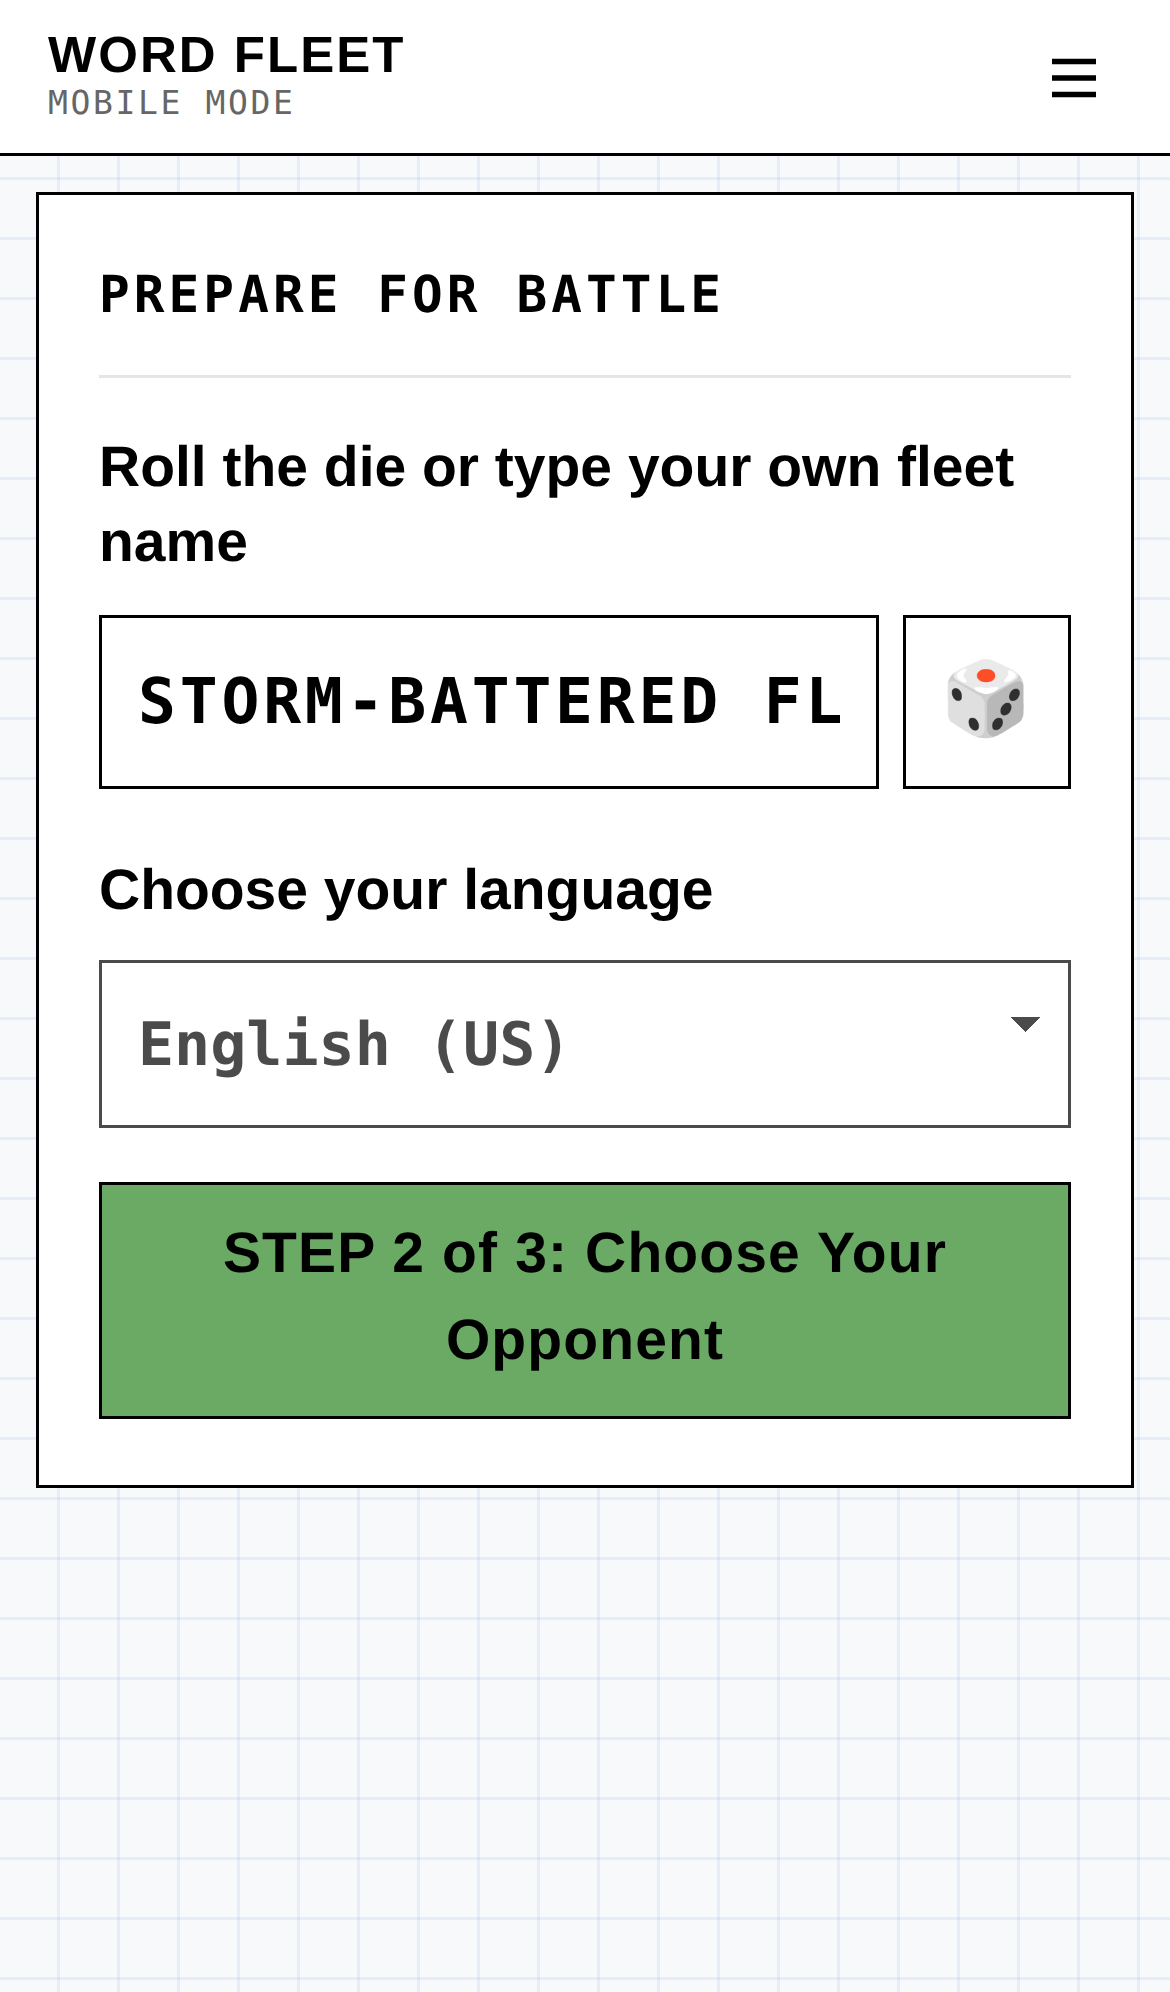
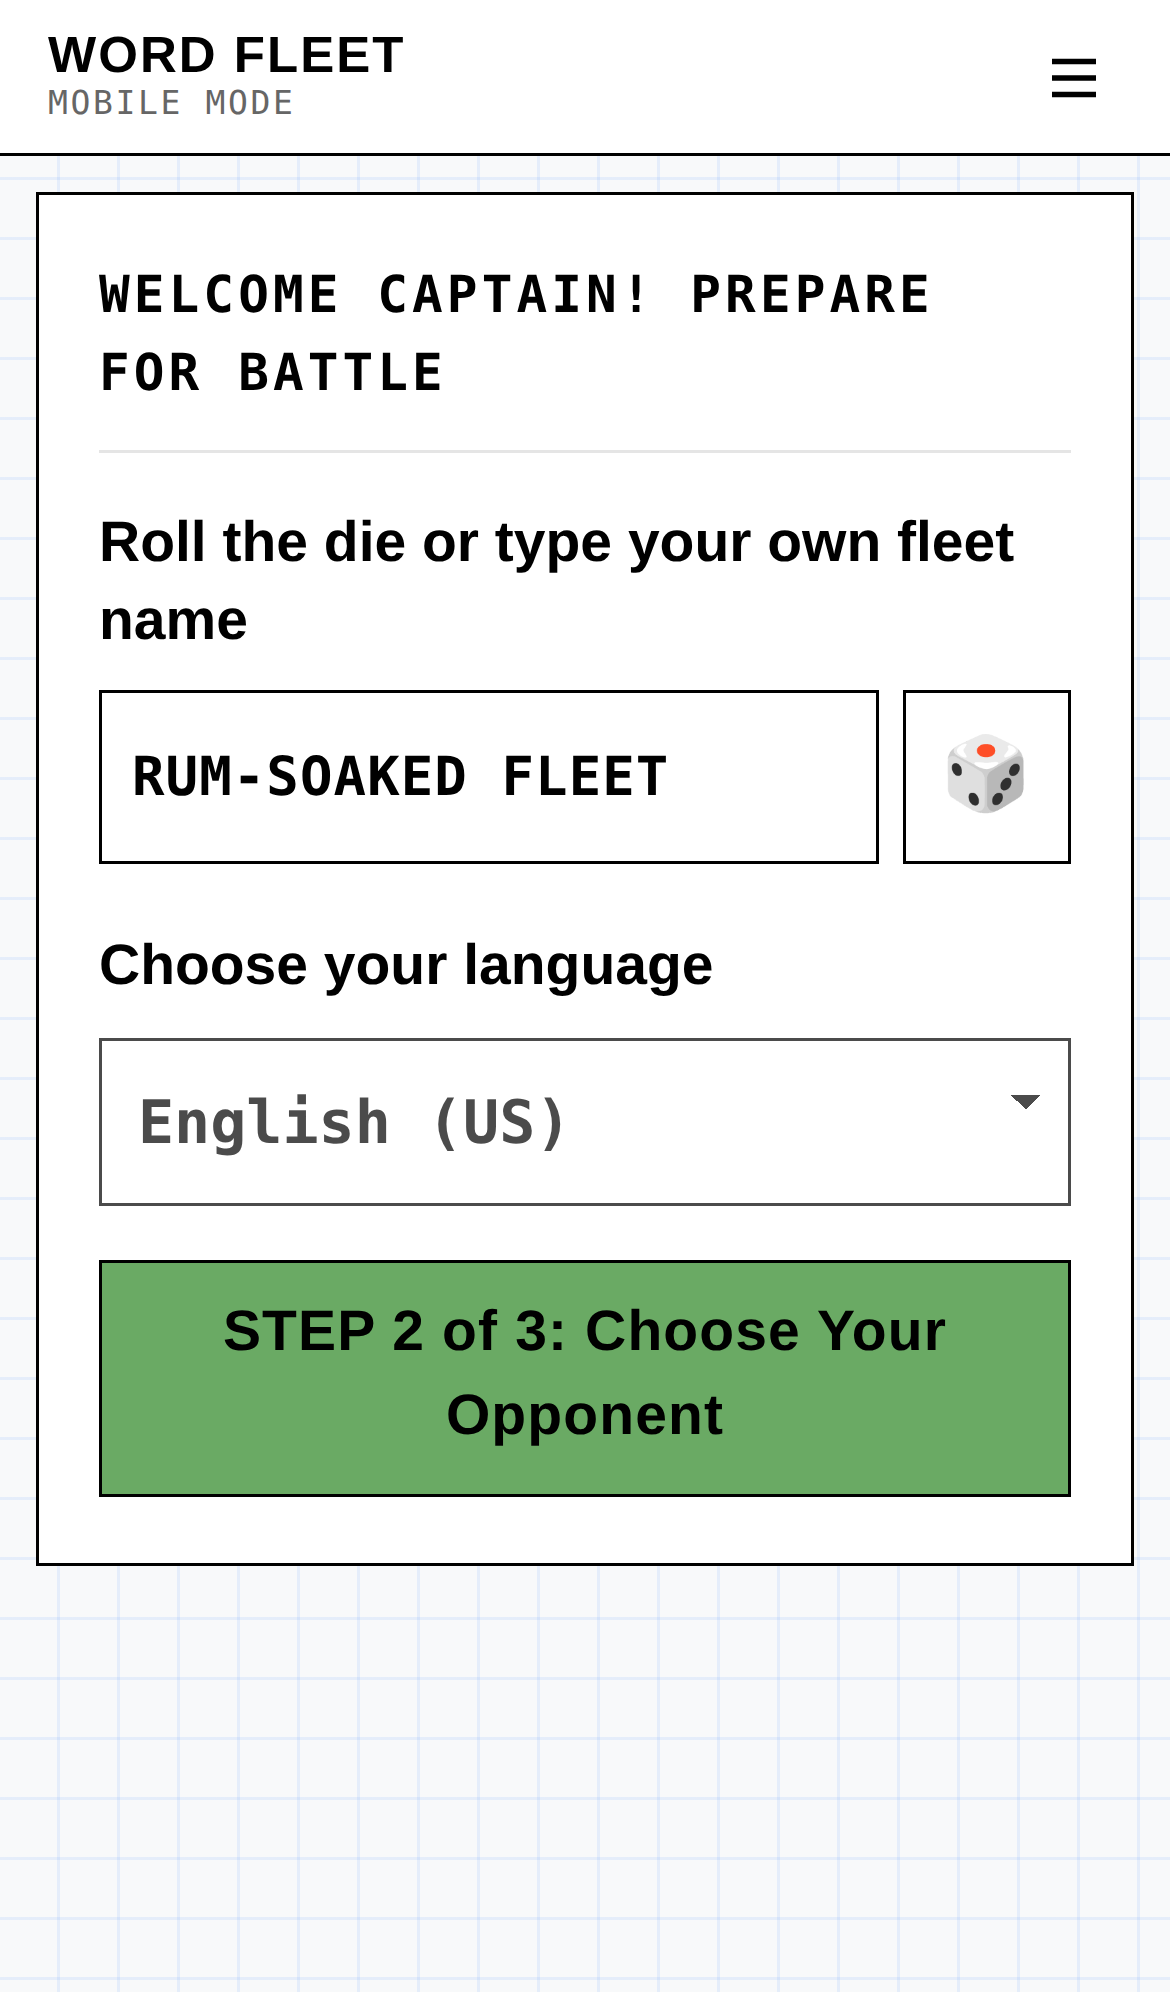
002: title Welcome Captain! Prepare for Battle; fit fleet name on small phones
Claude-Session: https://claude.ai/code/session_013sUGAAEC45a1EJCrQWVj9Q

diff --git a/mobile/index.html b/mobile/index.html
@@ -18,7 +18,7 @@
   <link rel="preconnect" href="https://fonts.gstatic.com" crossorigin>
   <link href="https://fonts.googleapis.com/css2?family=Courier+Prime:wght@400;700&family=Inter:wght@400;500;600;700&display=swap" rel="stylesheet">
   <!-- Bump ?v= on every release (and CACHE in sw.js) so a new page never runs old code. -->
-  <link rel="stylesheet" href="app.css?v=39">
+  <link rel="stylesheet" href="app.css?v=40">
 </head>
 <body>
 
@@ -54,7 +54,7 @@
   <!-- ============ 002 PREPARE FOR BATTLE (screen name: "002 Prepare for Battle") ============ -->
   <section class="screen setup-big" id="scrSetup" data-screen="002 Prepare for Battle">
     <div class="card">
-      <div class="card-title">Prepare for Battle</div>
+      <div class="card-title">Welcome Captain! Prepare for Battle</div>
       <label class="label label--say" for="inFleet">Roll the die or type your own fleet name</label>
       <div class="input-row">
         <input class="input" id="inFleet" maxlength="24" autocomplete="off" autocapitalize="characters" spellcheck="false" placeholder="SALTY ARMADA">
@@ -211,7 +211,7 @@
 
 <div class="toast" id="toast" hidden></div>
 
-<script src="audio.js?v=39"></script>
-<script src="app.js?v=39"></script>
+<script src="audio.js?v=40"></script>
+<script src="app.js?v=40"></script>
 </body>
 </html>

diff --git a/mobile/sw.js b/mobile/sw.js
@@ -1,11 +1,11 @@
 /* Word Fleet service worker: the whole game works offline once loaded. */
-var CACHE = 'wordfleet-v39';
+var CACHE = 'wordfleet-v40';
 var SHELL = [
   './',
   'index.html',
-  'app.css?v=39',
-  'app.js?v=39',
-  'audio.js?v=39',
+  'app.css?v=40',
+  'app.js?v=40',
+  'audio.js?v=40',
   'manifest.webmanifest',
   'icons/icon-180.png',
   'icons/icon-192.png',

diff --git a/mobile/app.css b/mobile/app.css
@@ -426,3 +426,4 @@ button.mf { font: inherit; color: var(--ink); width: 100%; padding: 3px 0 2px; c
 .setup-big .word-class { font-size: 14px; }
 .setup-big .word-class b { font-size: 16px; }
 .setup-big .input { letter-spacing: 0.06em; }
+.setup-big #inFleet { font-size: 18px; letter-spacing: 0.02em; padding: 10px; }

diff --git a/mobile/screens/README.md b/mobile/screens/README.md
@@ -6,7 +6,7 @@ referred to by name when asking for changes. Each has a number and a reference s
 | Name | In the code | Snapshot | What it is |
 | --- | --- | --- | --- |
 | **001 Mobile Home** *(parked)* | `<section id="scrMobileHome" data-screen="001 Mobile Home">`, `SCREENS.home` | `001-mobile-home.png` | **Parked, not shown to players.** Kept for later use. Was the first screen: WORD FLEET title, Mobile Mode tag, blurb, New Battle and Rules of Engagement buttons. The app now opens on 002 Prepare for Battle. |
-| **002 Prepare for Battle** | `<section id="scrSetup" data-screen="002 Prepare for Battle">`, `SCREENS.setup` | `002-prepare-for-battle.png` | **First screen players see.** "Roll the die or type your own fleet name" (with dice), "Choose your language". Screens 002-004 use large, easy-to-read text (`.setup-big`). |
+| **002 Prepare for Battle** | `<section id="scrSetup" data-screen="002 Prepare for Battle">`, `SCREENS.setup` | `002-prepare-for-battle.png` | **First screen players see.** Title "Welcome Captain! Prepare for Battle". "Roll the die or type your own fleet name" (with dice), "Choose your language". Screens 002-004 use large, easy-to-read text (`.setup-big`). |
 | **003 Choose Your Opponent** | `<section id="scrOpponent" data-screen="003 Choose Your Opponent">`, `SCREENS.opponent` | `003-choose-your-opponent.png` | Step 2 of 3: the AI Captain's rank (Ensign, Commander, Admiral). |
 | **004 Build Your Word-Ships** | `<section id="scrWords" data-screen="004 Build Your Word-Ships">`, `SCREENS.words` | `004-build-your-word-ships.png` | Possibly Offensive Words OK at the top; the five word-ships arrive drawn for your opponent and are editable, each with a ↻ redraw; Refresh All; Deploy Fleet checks every word against the dictionary. |
 | **005 Deploy** | `<section id="scrDeploy" data-screen="005 Deploy">`, `SCREENS.deploy` | `005-deploy.png`, `005-deploy-placed.png` | Place the five word-ships on your Defense Grid: Across/Down, Scatter, Clear, the roster of ships, Confirm Deployment, Change Words. Drag a ship to move it; double-tap its first letter to turn it. |
